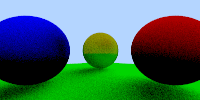
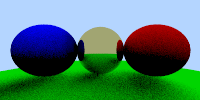
fixed reflective shader

diff --git a/main.go b/main.go
@@ -40,19 +40,16 @@ func main() {
 				R: 0, G: 0, B: 1}}},
 		&lib.Sphere{
 			Position: lib.Vec{
-				X: 0, Y: 0, Z: 20},
+				X: 0, Y: 0, Z: 12},
 			Radius: 4,
-			Shader: &lib.MixedShader{
-				X: []lib.Shader{&lib.ReflectiveShader{Color: lib.Color{
-					R: 0.7, G: 0.5, B: 0}}, &lib.DiffuseShader{Color: lib.Color{
-					R: 0.7, G: 0.5, B: 0}}},
-				P: []float64{1, 2}}}}
+			Shader: &lib.ReflectiveShader{Color: lib.Color{
+				R: 0.8, G: 0.6, B: 0.2}}}}
 
 	camera := lib.Camera{
 		Position:      lib.Vec{X: 0, Y: 0, Z: 0.3},
 		ScreenWidth:   width,
 		ScreenHeight:  height,
-		FOVMultiplier: 1.5}
+		FOVMultiplier: 2}
 	renderConfig := lib.RenderConfig{
 		MaxDepth: maxDepth,
 		Samples:  samples}

diff --git a/lib/shader.go b/lib/shader.go
@@ -85,6 +85,6 @@ func (f *ReflectiveShader) Scatter(r *Ray, h *Hit) *ScatterResult {
 	return &ScatterResult{
 		f.Color,
 		&Ray{
-			r.Position,
-			v.Sub(n.Mul(v.Dot(h.Normal) * 2))}}
+			h.Position,
+			v.Sub(n.Mul(v.Dot(n) * 2))}}
 }
